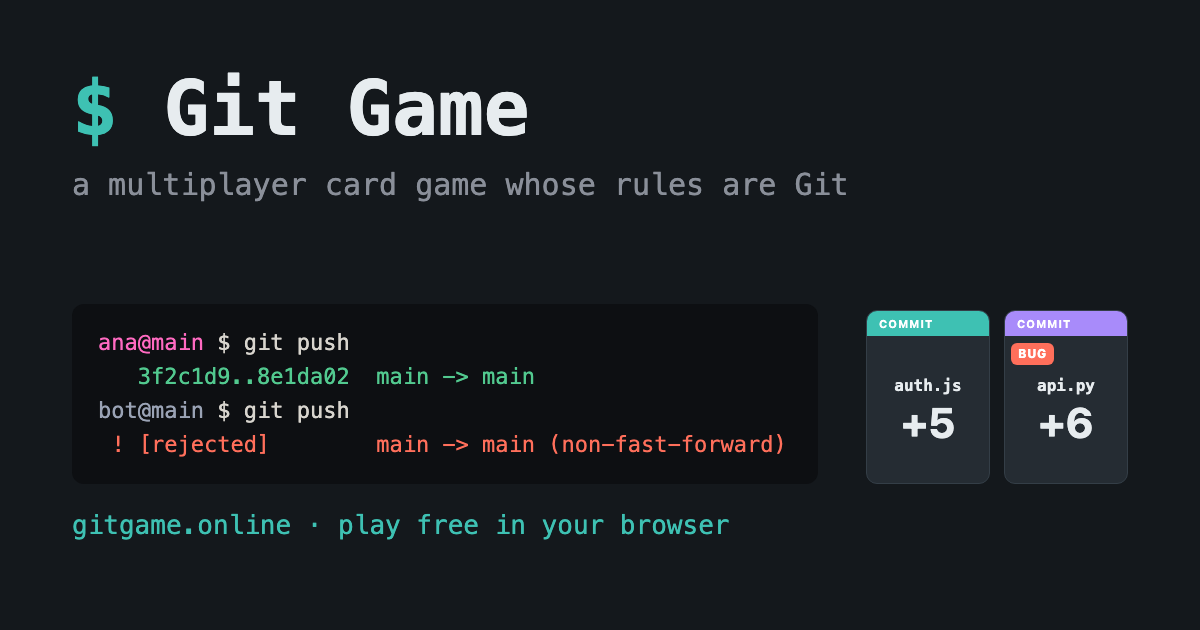
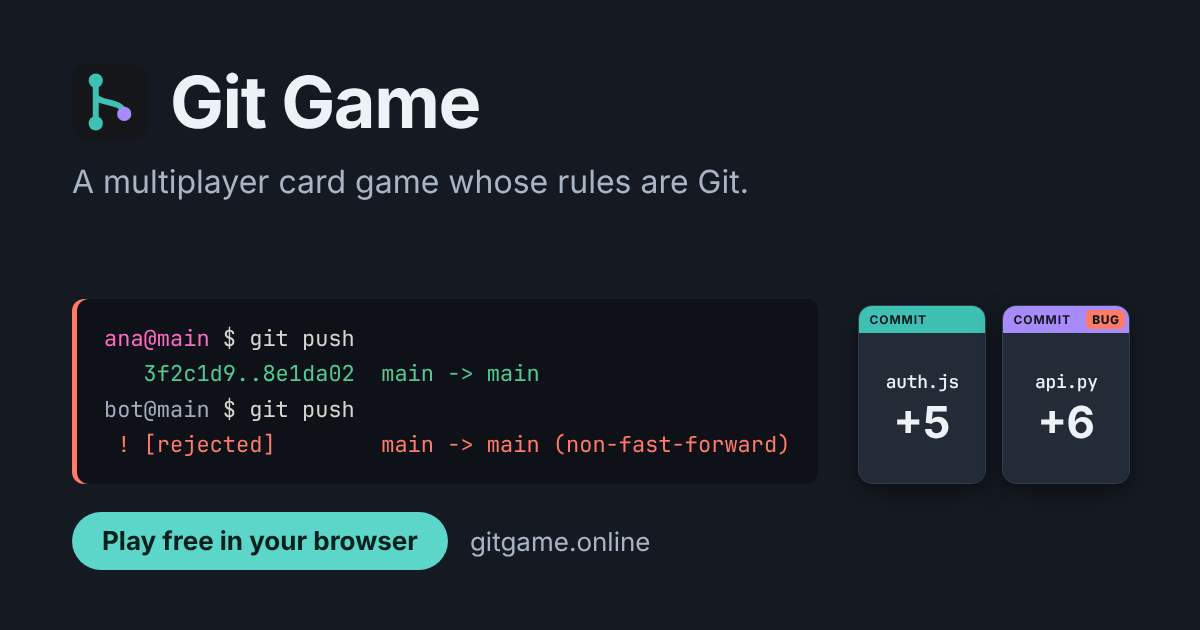
style(web): the link-preview image in Studio (#132)
Redraws web/public/og.png from scripts/og-image.html in the Studio look: the logo
mark and a sans wordmark, the terminal with its reject edge and Git's real
column alignment, the cards with dark band labels and BUG at the band's end, and
a teal play pill. og-image.sh now passes --no-sandbox when run as root, where
Chromium otherwise exits without drawing anything.

Claude-Session: https://claude.ai/code/session_015jhgTQo111Kvzh2GJhVjNB

diff --git a/scripts/og-image.html b/scripts/og-image.html
@@ -1,11 +1,33 @@
 <!doctype html>
 <!-- The landing page's link-preview image (ADR-0009), drawn at 1200×630 by scripts/og-image.sh into web/public/og.png.
-     The game's colors (web/src/styles.css) and the deck's file colors (rules/deck.json); the name is drawn in, so a
-     rename (docs/branding.md) runs the script again. -->
+     The Studio look's dark theme (web/src/styles.css, design-system/gitgame/MASTER.md), the game's card
+     (web/src/cards.css) and the deck's file colors (rules/deck.json); the name is drawn in, so a rename
+     (docs/branding.md) runs the script again. -->
 <html lang="en">
   <head>
     <meta charset="utf-8" />
     <style>
+      :root {
+        --ground: #151a22;
+        --paper: #232b37;
+        --ink: #eef2f7;
+        --muted: #a9b4c4;
+        --line: #323c4b;
+        --accent: #5cd6c8;
+        --on-accent: #06201d;
+        --on-band: #11161a;
+        --bug-fill: #ff7a67;
+        --term: #0e1218;
+        --term-ink: #d8d5ce;
+        --term-ok: #52c98f;
+        --term-reject: #ff7a67;
+        --term-you: #ff6ac1;
+        --term-other: #a3acbd;
+        --mono:
+          ui-monospace, "SF Mono", SFMono-Regular, "JetBrains Mono", Menlo,
+          Consolas, monospace;
+        --sans: system-ui, -apple-system, "Segoe UI", Roboto, sans-serif;
+      }
       * {
         box-sizing: border-box;
       }
@@ -17,132 +39,146 @@
         overflow: hidden;
       }
       body {
-        background: #14181c;
-        color: #e7ecef;
-        font-family: ui-monospace, "SF Mono", Menlo, Consolas, monospace;
-        font-variant-ligatures: none;
-        padding: 64px 72px;
+        background: var(--ground);
+        color: var(--ink);
+        font-family: var(--sans);
+        padding: 64px 72px 60px;
         display: grid;
         grid-template-columns: 1fr auto;
-        grid-template-rows: auto 1fr auto;
-        column-gap: 48px;
+        grid-template-rows: auto auto 1fr auto;
+        column-gap: 40px;
+      }
+      .mark {
+        grid-column: 1 / -1;
+        display: flex;
+        align-items: center;
+        gap: 22px;
+      }
+      .mark img {
+        width: 76px;
+        height: 76px;
       }
       h1 {
-        grid-column: 1 / -1;
         margin: 0;
-        font-size: 76px;
-      }
-      h1 span {
-        color: #3ec1b3;
+        font-size: 72px;
+        font-weight: 700;
+        letter-spacing: -0.02em;
+        line-height: 1;
       }
       .lede {
         grid-column: 1 / -1;
-        margin: 14px 0 0;
-        font-size: 30px;
-        color: #8a8f99;
+        margin: 22px 0 0;
+        font-size: 32px;
+        color: var(--muted);
       }
       .term {
         align-self: end;
-        background: #0d0f12;
+        margin: 0;
+        background: var(--term);
         border-radius: 12px;
-        padding: 22px 26px;
-        font-size: 22px;
-        line-height: 1.55;
+        box-shadow: inset 5px 0 0 var(--term-reject);
+        padding: 22px 28px 22px 32px;
+        font: 22px/1.6 var(--mono);
+        font-variant-ligatures: none;
         white-space: pre;
-        color: #d8d5ce;
+        color: var(--term-ink);
       }
       .who {
-        color: #ff6ac1;
+        color: var(--term-you);
       }
       .bot {
-        color: #9aa3b5;
+        color: var(--term-other);
       }
       .ok {
-        color: #52c98f;
+        color: var(--term-ok);
       }
       .no {
-        color: #ff6f5b;
+        color: var(--term-reject);
       }
       .cards {
         align-self: end;
         display: flex;
-        gap: 14px;
+        gap: 16px;
       }
-      /* the game's card (web/src/cards.css) at 124 px wide */
+      /* the game's card (web/src/cards.css) at 128 px wide */
       .card {
         position: relative;
-        width: 124px;
-        height: 174px;
-        border-radius: 11px;
-        border: 1px solid #343e47;
-        background: #252c33;
+        width: 128px;
+        height: 179px;
+        border-radius: 14px;
+        border: 1px solid var(--line);
+        background: var(--paper);
+        box-shadow: 0 8px 24px rgb(0 0 0 / 0.45);
         display: grid;
-        grid-template-rows: 25px 1fr;
+        grid-template-rows: 27px 1fr;
         overflow: hidden;
         text-align: center;
       }
       .band {
         background: var(--band);
-        color: #fff;
-        font:
-          700 11px/25px system-ui,
-          -apple-system,
-          "Segoe UI",
-          sans-serif;
-        letter-spacing: 0.1em;
+        color: var(--on-band);
+        font: 700 12px/27px var(--sans);
+        letter-spacing: 0.08em;
         text-transform: uppercase;
         text-align: left;
-        padding: 0 12px;
+        padding: 0 10px;
       }
       .face {
         display: grid;
         align-content: center;
-        gap: 6px;
+        gap: 8px;
       }
       .file {
-        font-size: 16px;
-        font-weight: 600;
+        font: 600 18px/1.15 var(--mono);
+        letter-spacing: -0.02em;
       }
       .big {
-        font:
-          700 42px/1 system-ui,
-          -apple-system,
-          "Segoe UI",
-          sans-serif;
+        font: 700 44px/1 var(--sans);
+        font-variant-numeric: tabular-nums;
       }
       .bug {
         position: absolute;
-        left: 6px;
-        top: 32px;
-        padding: 0 7px;
-        border-radius: 6px;
-        background: #ff6f5b;
-        color: #fff;
-        font:
-          800 12px/22px system-ui,
-          -apple-system,
-          "Segoe UI",
-          sans-serif;
-        letter-spacing: 0.06em;
+        right: 4px;
+        top: 4px;
+        padding: 0 6px;
+        border-radius: 5px;
+        background: var(--bug-fill);
+        color: var(--on-band);
+        font: 800 12px/19px var(--sans);
+        letter-spacing: 0.04em;
       }
-      .domain {
+      .foot {
         grid-column: 1 / -1;
         align-self: end;
-        margin-top: 26px;
+        margin-top: 28px;
+        display: flex;
+        align-items: center;
+        gap: 22px;
+      }
+      .play {
+        background: var(--accent);
+        color: var(--on-accent);
+        border-radius: 999px;
+        padding: 0 30px;
+        font: 700 26px/58px var(--sans);
+      }
+      .domain {
         font-size: 26px;
-        color: #3ec1b3;
+        color: var(--muted);
       }
     </style>
   </head>
   <body>
-    <h1><span>$</span> Git Game</h1>
-    <p class="lede">a multiplayer card game whose rules are Git</p>
-    <div class="term">
-      <span class="who">ana@main</span> $ git push
-      <span class="ok"> 3f2c1d9..8e1da02 main -&gt; main</span>
-      <span class="bot">bot@main</span> $ git push
-      <span class="no"> ! [rejected] main -&gt; main (non-fast-forward)</span>
+    <div class="mark">
+      <img src="../web/public/icon.svg" alt="" />
+      <h1>Git Game</h1>
     </div>
+    <p class="lede">A multiplayer card game whose rules are Git.</p>
+    <pre class="term">
+<span class="who">ana@main</span> $ git push
+<span class="ok">   3f2c1d9..8e1da02  main -&gt; main</span>
+<span class="bot">bot@main</span> $ git push
+<span class="no"> ! [rejected]        main -&gt; main (non-fast-forward)</span></pre>
     <div class="cards">
       <div class="card" style="--band: #3ec1b3">
         <span class="band">commit</span
@@ -157,6 +193,9 @@
         ><span class="bug">BUG</span>
       </div>
     </div>
-    <p class="domain">gitgame.online · play free in your browser</p>
+    <div class="foot">
+      <span class="play">Play free in your browser</span>
+      <span class="domain">gitgame.online</span>
+    </div>
   </body>
 </html>

diff --git a/CHANGELOG.md b/CHANGELOG.md
@@ -9,6 +9,7 @@ Every user-visible change lands under *Unreleased* in the same pull request that
 
 ### Changed
 - A new look, "Studio", for every page and every screen of the game. It uses cool slate grounds, the logo's teal for actions, pill buttons, sans headings and mono for what Git says, and it follows the device's light or dark setting. All text meets WCAG AA contrast in both themes, nothing anyone must read is under 12 px, and every control is at least 44 px. On wide screens the hand wraps onto a second row instead of turning its labels sideways. The header menu closes with Escape or a tap outside it.
+- The link-preview image (`og.png`) is redrawn in the Studio look.
 
 ## [0.5.4] - 2026-10-30
 

diff --git a/design-system/gitgame/MASTER.md b/design-system/gitgame/MASTER.md
@@ -316,7 +316,7 @@ Each phase is one commit (or a few) on `claude/ui-ux-redesign`.
 7. **Verification.** Screenshots at 375, 768, 1024 and 1440 px in light and dark across all four families, and both
    scans on the live app.
 
-Out of scope unless asked: the link-preview image (`web/public/og.png`), the print-and-play deck, `prototypes/`.
+Out of scope unless asked: the print-and-play deck, `prototypes/`. The link-preview image (`web/public/og.png`) was redrawn in Studio afterwards, from `scripts/og-image.html`.
 
 ---
 
